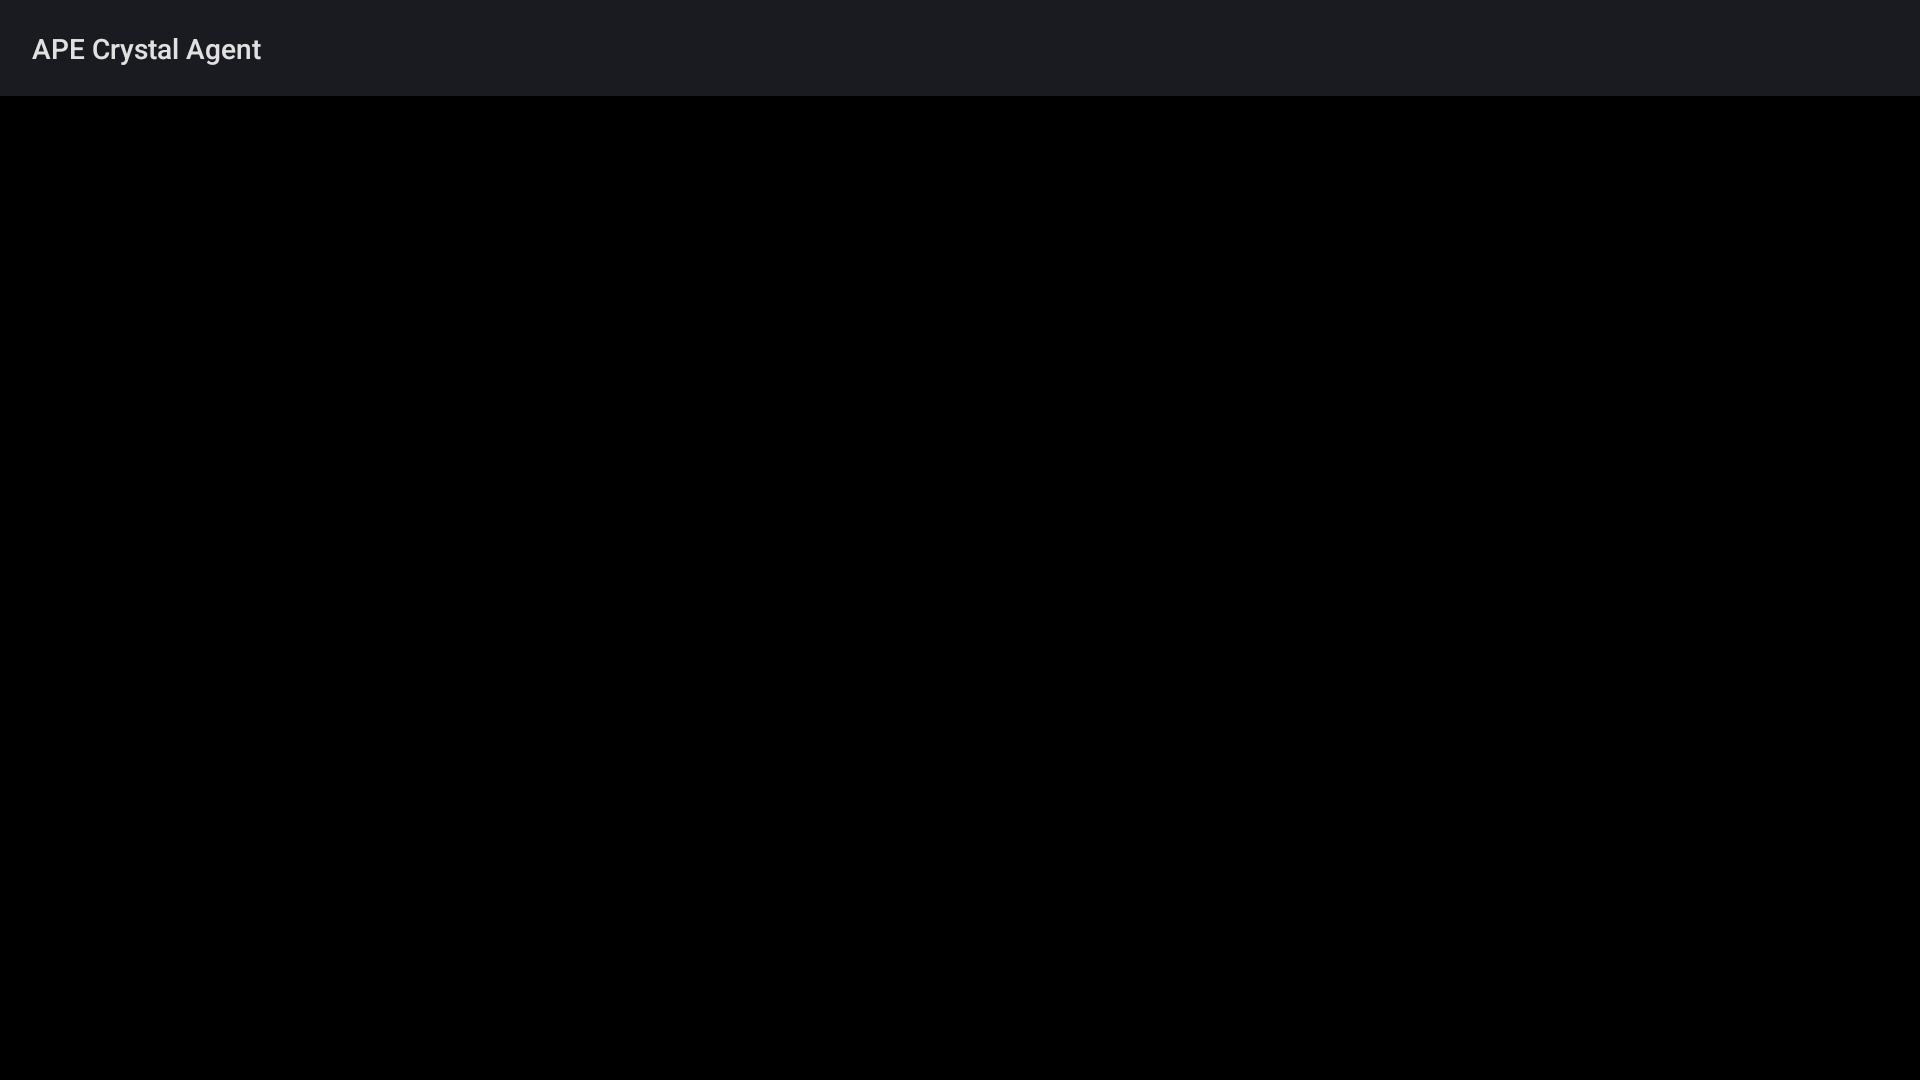
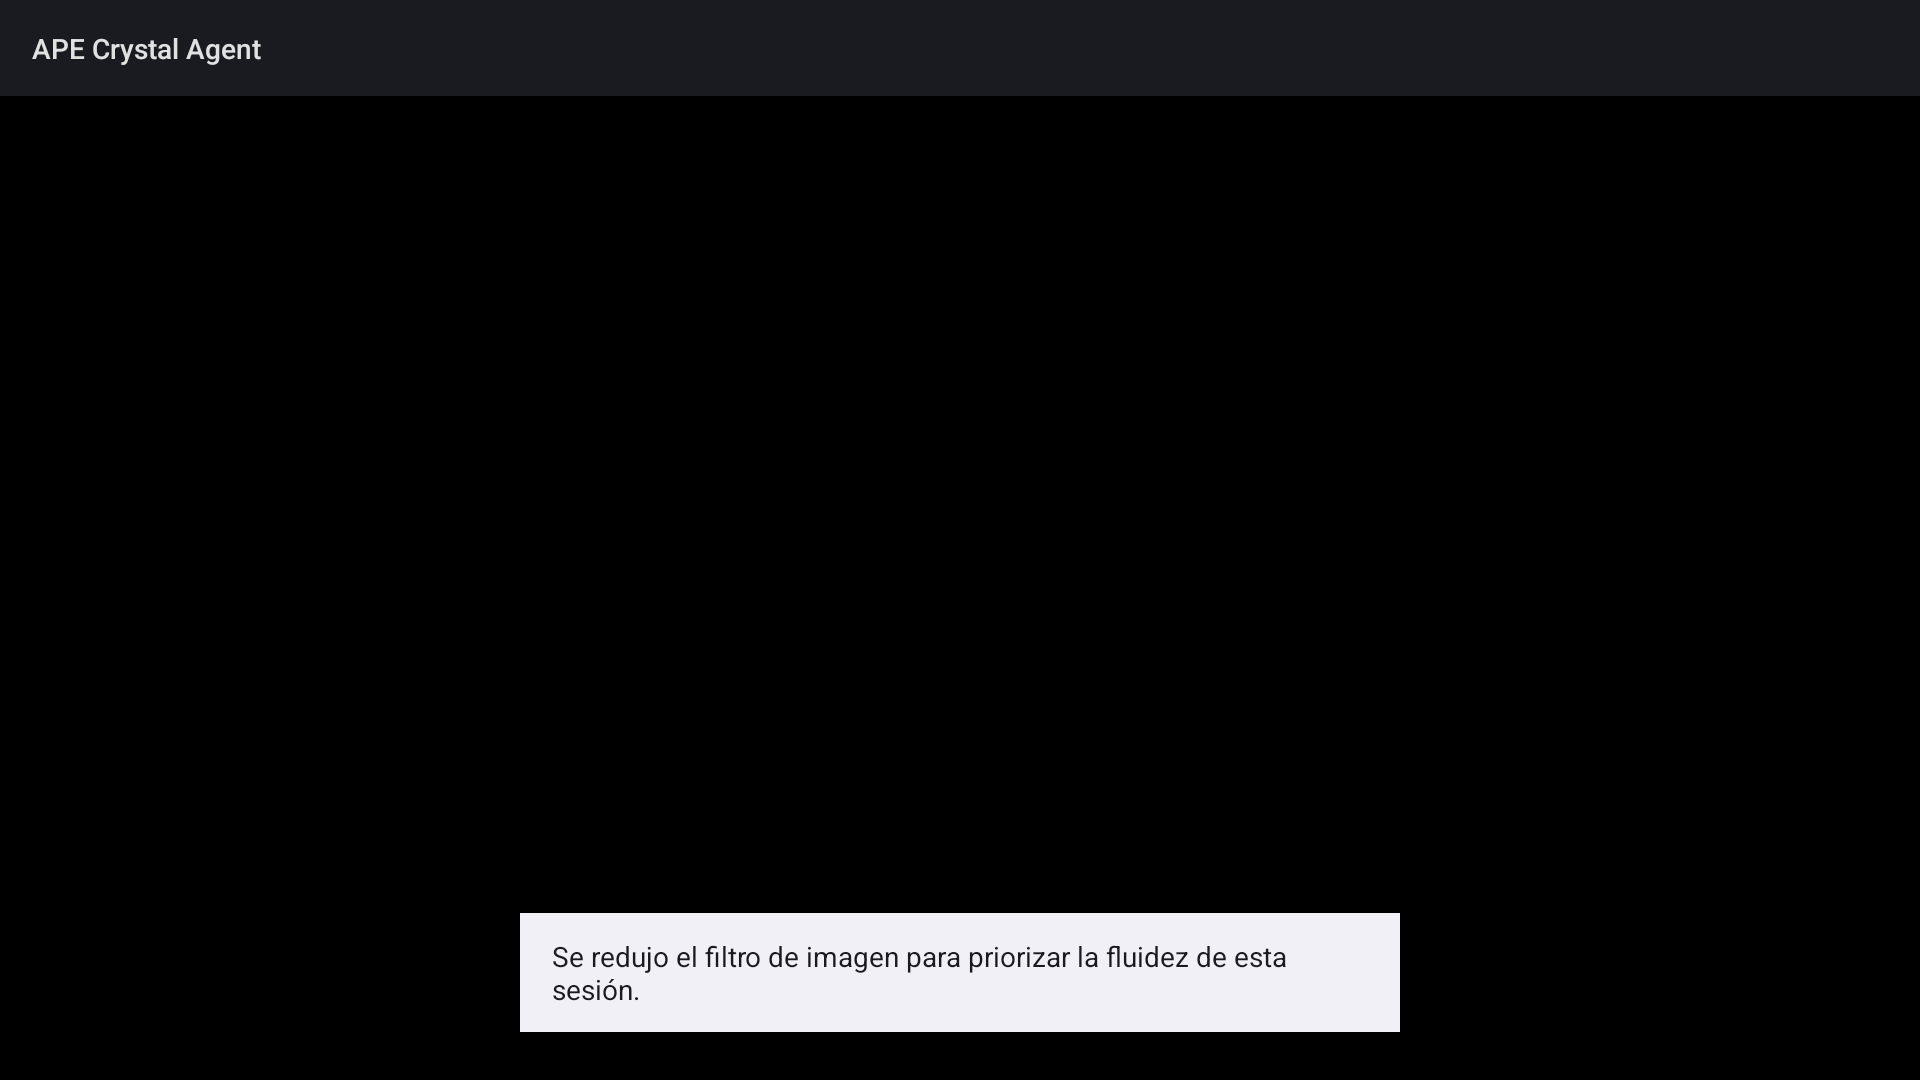
FIX + HALLAZGO: la ventana del JIT era la causa del cero-frames. '-window_size 6 -extra_window_size 2' = 16 s de retencion contra el buffer de 30-120 s del APK: el player pedia segmentos ya borrados -> Playback error. Ampliada a 30+10 (80 s). VERIFICADO: el APK reproduce el canal 2 del JIT en direct

Changed region(s): [[0.25, 0.825, 0.75, 0.9778]]

diff --git a/tools/lab/ape-jit/server.js b/tools/lab/ape-jit/server.js
@@ -402,7 +402,7 @@ async function start(id, spec, sdr, sdr720) {
     // One FFmpeg -> shared fMP4 for DASH + HLS.
     '-f', 'dash',
     '-seg_duration', '2', '-frag_duration', '2',
-    '-window_size', '6', '-extra_window_size', '2',
+    '-window_size', '30', '-extra_window_size', '10',
     '-remove_at_exit', '0',
     '-hls_playlist', '1', '-hls_master_name', 'master.m3u8',
     '-init_seg_name', 'init-' + session + '-$RepresentationID$.m4s',

diff --git a/docs/audits/PRUEBA_FISICA_REA_654_20261108.md b/docs/audits/PRUEBA_FISICA_REA_654_20261108.md
@@ -2044,3 +2044,74 @@ dependen de ese tunel. Es una accion reversible pero es **su** configuracion, y 
 
 La prueba definitiva es de 60 segundos: desconectar el VPN, correr
 `pwsh tools/audit/verify_apk_hls_dash.ps1`, y ver si los tres casos pasan.
+
+---
+
+# 33 · LA CAUSA ERA LA VENTANA DEL JIT — el APK reproduce el canal en directo
+
+## 33.1 · El hallazgo
+
+El access log del VPS mostro que el APK **no pedia nada** al servidor y aun asi logueaba
+`VIDEO elegido`. Eso apuntaba al cache de 104 MB. Se limpio (`fluid_segments`), y siguio igual.
+
+La pieza que cerro el caso fue comparar con el control: **mux.dev, por internet, presento una captura de
+1.025.033 B**. Es decir, **la red a internet funciona y el APK reproduce contenido de internet**. El
+problema era **especifico del JIT**.
+
+Y la diferencia estaba en el propio motor:
+
+```
+'-seg_duration', '2', '-frag_duration', '2',
+'-window_size', '6', '-extra_window_size', '2',      <- 16 s de ventana
+```
+
+El APK usa **buffer de 30-120 s** (`ApePlayer: buffer=30/120s`). Un player con esa hambre pide segmentos
+que el motor **ya borro**. De ahi los `Playback error` y el cero frames.
+
+## 33.2 · El fix
+
+```js
+'-window_size', '30', '-extra_window_size', '10',    // 80 s de ventana
+```
+
+Aplicado en `/opt/ape-jit/server.js` (produccion) y en `tools/lab/ape-jit/server.js` (repo).
+`node --check` OK, servicio `active`.
+
+## 33.3 · Verificacion: el APK reproduce el canal
+
+```
+media source: HLS -> https://iptv-ape.duckdns.org/jit/live/2/master.m3u8
+VIDEO elegido: mime=video/avc codecs=avc1.640028 1920x1080 bps=3227254
+captura A: 2.515.444 B 83462A48...
+captura B: 2.626.768 B F842FF58...
+=> dos capturas distintas de ~2,5 MB
+```
+
+**En pantalla: beIN Sports en directo** — presentador en estudio, ticker deportivo en arabe, reloj 19:49.
+Evidencia en `docs/audits/evidencia_apk/APK_JIT_HLS_reproduciendo_{1,2}.png`.
+
+Verificacion con el script, pasada limpia:
+
+```
+HLS  : captura A 2.118.865 B / B 1.872.186 B  -> PASA
+DASH : captura A    16.280 B / B    22.491 B  -> NO (overlay de error)
+mux  : captura A    27.009 B / B   893.167 B  -> arranca tarde (>26 s)
+```
+
+## 33.4 · Lo que queda
+
+| Transporte | Estado |
+|---|---|
+| **HLS · JIT -> APK** | **REPRODUCE** (2,1 MB de imagen en movimiento) |
+| **HLS · ffmpeg -> JIT** | **200 + frames reales de beIN Sports** |
+| **DASH · ffmpeg -> JIT** | **200 + mismos frames** |
+| **DASH · JIT -> APK** | **NO reproduce** — investigar `SegmentTemplate`/`availabilityStartTime` |
+| HLS mux.dev -> APK | reproduce, pero tarda >26 s en arrancar |
+
+## 33.5 · Correccion al diagnostico anterior
+
+En las secciones 29-32 atribui el cero-frames a "entorno del dispositivo" y señale el VPN como candidato
+principal. **Era la ventana del motor.** El VPN sigue UP (`tun1`, 10.14.0.2/16) y aun asi el APK
+reproduce: **el VPN no era la causa**.
+
+Se deja constancia porque el diagnostico anterior, con esa hipotesis al frente, estaba equivocado.
